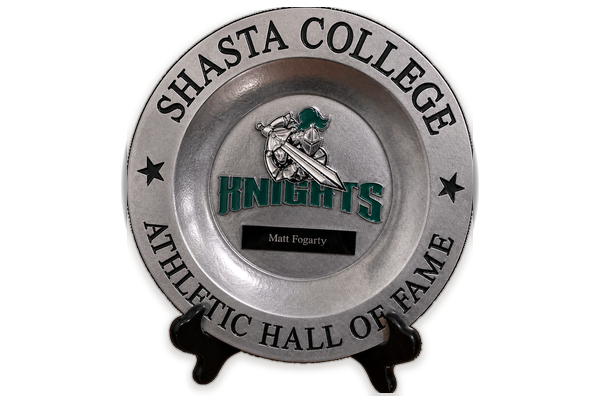
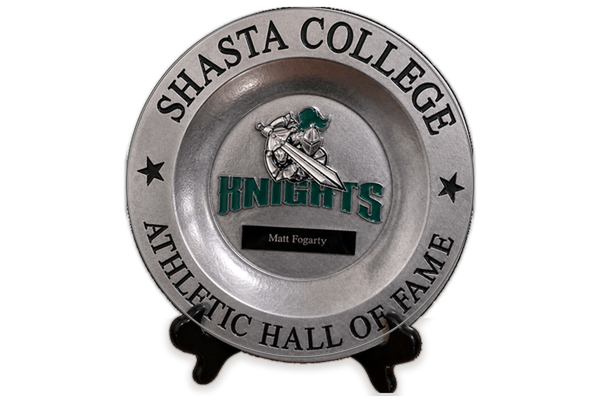
Refine gallery awards and carousel arrows

diff --git a/styles.css b/styles.css
@@ -11243,6 +11243,15 @@ body .page-shell main.media-library-page > #playing-awards-media.media-library-s
   object-position: center center !important;
 }
 
+body .page-shell main.media-library-page > #playing-awards-media.media-library-section .media-library-card.is-award-bg-blend,
+body .page-shell main.media-library-page > #playing-awards-media.media-library-section .media-library-card.is-award-bg-blend .media-library-frame {
+  background: linear-gradient(180deg, #ead8b8 0%, #f5e7cf 42%, #fff7e8 100%) !important;
+}
+
+body .page-shell main.media-library-page > #playing-awards-media.media-library-section .media-library-card.is-award-mvp-plaque .media-library-frame img {
+  transform: scale(1.14) !important;
+}
+
 /* Awards overlay thumbnail lock:
    use cropped overlay-thumb image sources in app.js, then let the image cover
    the full button so no balanced-document mat shows inside the thumbnail. */
@@ -15873,6 +15882,10 @@ body .page-shell main.anaya-case-study-page > .anaya-journey-section > .section-
   line-height: var(--section-title-line-desktop, 1.05) !important;
 }
 
+body .page-shell main.media-library-page > .media-library-section {
+  padding-bottom: 12px !important;
+}
+
 @media (min-width: 1025px) {
   body .page-shell main.media-library-page > .media-library-section > .section-heading > .eyebrow,
   body .page-shell main.anaya-case-study-page > .anaya-journey-section > .section-heading > .eyebrow {
@@ -19615,6 +19628,198 @@ html body .page-shell main.anaya-case-study-page > section.featured-final-cta #a
 /* Anaya Explore handoff: remove the mobile/tablet cream tail after the final image before the black CTA starts. */
 html body .page-shell main.anaya-case-study-page.anaya-case-study-page > section#next-level.section.anaya-journey-section {
   padding-bottom: 0 !important;
+}
+
+html body .page-shell main.media-library-page > #playing-awards-media.media-library-section .media-library-card.is-award-mvp-plaque .media-library-frame img {
+  transform: scale(1.14) !important;
+}
+
+/* Shared carousel arrow centering lock: keep round controls and center the chevron glyph optically. */
+html body :is(
+  .media-carousel-arrow,
+  .system-carousel-arrow,
+  .playing-career-arrow,
+  .playing-career-awards-arrow,
+  .media-overlay-nav,
+  .media-overlay-thumb-nav
+) {
+  display: grid !important;
+  aspect-ratio: 1 / 1 !important;
+  align-items: center !important;
+  justify-items: center !important;
+  place-items: center !important;
+  padding: 0 !important;
+  border-radius: 999px !important;
+  font-size: 0 !important;
+  line-height: 0 !important;
+  text-align: center !important;
+}
+
+html body .media-carousel-arrow {
+  width: 30px !important;
+  height: 30px !important;
+  border-color: #d95a24 !important;
+  color: #9f2f22 !important;
+  -webkit-text-fill-color: #9f2f22 !important;
+}
+
+html body :is(.playing-career-arrow, .media-overlay-nav) {
+  width: 36px !important;
+  height: 36px !important;
+}
+
+html body :is(.playing-career-awards-arrow, .system-carousel-arrow) {
+  width: 36px !important;
+  height: 36px !important;
+}
+
+html body .media-overlay-thumb-nav {
+  width: 32px !important;
+  height: 32px !important;
+}
+
+html body :is(
+  .media-carousel-arrow-prev,
+  .system-carousel-arrow-prev,
+  .playing-career-arrow-prev,
+  .playing-career-awards-arrow-prev,
+  .media-overlay-prev,
+  .media-overlay-thumb-prev
+)::before,
+html body :is(
+  .media-carousel-arrow-next,
+  .system-carousel-arrow-next,
+  .playing-career-arrow-next,
+  .playing-career-awards-arrow-next,
+  .media-overlay-next,
+  .media-overlay-thumb-next
+)::before {
+  display: grid !important;
+  width: 100% !important;
+  height: 100% !important;
+  place-items: center !important;
+  color: currentColor !important;
+  -webkit-text-fill-color: currentColor !important;
+  font-family: Arial, Helvetica, sans-serif !important;
+  font-size: 0.72em !important;
+  font-weight: 700 !important;
+  line-height: 1 !important;
+  text-align: center !important;
+  transform: translateY(-0.02em) !important;
+}
+
+html body :is(
+  .media-carousel-arrow-prev,
+  .system-carousel-arrow-prev,
+  .playing-career-arrow-prev,
+  .playing-career-awards-arrow-prev,
+  .media-overlay-prev,
+  .media-overlay-thumb-prev
+)::before {
+  content: "\2039" !important;
+}
+
+html body :is(
+  .media-carousel-arrow-next,
+  .system-carousel-arrow-next,
+  .playing-career-arrow-next,
+  .playing-career-awards-arrow-next,
+  .media-overlay-next,
+  .media-overlay-thumb-next
+)::before {
+  content: "\203a" !important;
+}
+
+html body :is(.media-carousel-arrow, .system-carousel-arrow)::before {
+  font-size: 1.7rem !important;
+}
+
+html body :is(.playing-career-arrow, .playing-career-awards-arrow, .media-overlay-thumb-nav)::before {
+  font-size: 1.55rem !important;
+}
+
+html body .media-overlay-nav::before {
+  font-size: 2rem !important;
+}
+
+html body :is(
+  .media-carousel-arrow-prev,
+  .system-carousel-arrow-prev,
+  .playing-career-arrow-prev,
+  .playing-career-awards-arrow-prev,
+  .media-overlay-prev,
+  .media-overlay-thumb-prev,
+  .media-carousel-arrow-next,
+  .system-carousel-arrow-next,
+  .playing-career-arrow-next,
+  .playing-career-awards-arrow-next,
+  .media-overlay-next,
+  .media-overlay-thumb-next
+)::before {
+  content: "" !important;
+  position: absolute !important;
+  top: 50% !important;
+  left: 50% !important;
+  display: block !important;
+  width: 0.54em !important;
+  height: 0.54em !important;
+  border-color: currentColor !important;
+  border-style: solid !important;
+  border-width: 0 !important;
+  font-size: 1.5rem !important;
+}
+
+html body :is(.media-carousel-arrow, .system-carousel-arrow, .playing-career-arrow, .playing-career-awards-arrow, .media-overlay-nav, .media-overlay-thumb-nav)::after {
+  content: none !important;
+}
+
+html body :is(
+  .media-carousel-arrow-prev,
+  .system-carousel-arrow-prev,
+  .playing-career-arrow-prev,
+  .playing-career-awards-arrow-prev,
+  .media-overlay-prev,
+  .media-overlay-thumb-prev
+)::before {
+  border-bottom-width: 4px !important;
+  border-left-width: 4px !important;
+  transform: translate(-38%, -50%) rotate(45deg) !important;
+}
+
+html body :is(
+  .media-carousel-arrow-next,
+  .system-carousel-arrow-next,
+  .playing-career-arrow-next,
+  .playing-career-awards-arrow-next,
+  .media-overlay-next,
+  .media-overlay-thumb-next
+)::before {
+  border-top-width: 4px !important;
+  border-right-width: 4px !important;
+  transform: translate(-62%, -50%) rotate(45deg) !important;
+}
+
+html body :is(.media-carousel-arrow, .system-carousel-arrow)::before {
+  font-size: 0.8rem !important;
+}
+
+html body :is(.playing-career-arrow, .playing-career-awards-arrow, .media-overlay-thumb-nav)::before {
+  font-size: 1.08rem !important;
+  border-width: 0 !important;
+}
+
+html body :is(.playing-career-arrow-prev, .playing-career-awards-arrow-prev, .media-overlay-thumb-prev)::before {
+  border-bottom-width: 3px !important;
+  border-left-width: 3px !important;
+}
+
+html body :is(.playing-career-arrow-next, .playing-career-awards-arrow-next, .media-overlay-thumb-next)::before {
+  border-top-width: 3px !important;
+  border-right-width: 3px !important;
+}
+
+html body .media-overlay-nav::before {
+  font-size: 1.28rem !important;
 }
 
 @media (max-width: 1024px) {

diff --git a/app.js b/app.js
@@ -1155,11 +1155,12 @@ const playingCareerAwardAlbums = [
       {
         type: "image",
         fullSrc: playingCareerAward("playing-awards-rocky-mountain-college-mvp-portrait-1800x2400.avif"),
-        mediaCardSrc: playingCareerAward("playing-awards-rocky-mountain-college-mvp-card-1200x900.avif"),
+        mediaCardSrc: playingCareerAward("playing-awards-rocky-mountain-college-mvp-clean-600x400.png"),
         carouselSrc: playingCareerAward("playing-awards-rocky-mountain-college-mvp-clean-600x400.png"),
         thumbSrc: playingCareerAward("playing-awards-rocky-mountain-college-mvp-overlay-thumb-600x400.webp"),
         alt: "Rocky Mountain College MVP award",
         caption: "Rocky Mountain College MVP",
+        cardClass: "is-award-bg-blend is-award-mvp-plaque",
         orientation: "portrait"
       },
       {
@@ -1173,9 +1174,11 @@ const playingCareerAwardAlbums = [
       {
         type: "image",
         fullSrc: playingCareerAward("playing-awards-shasta-college-hall-of-fame-landscape-2400x1800.avif"),
+        mediaCardSrc: `${playingCareerAward("playing-awards-shasta-college-hall-of-fame-transparent-600x400.png")}?v=plate-black-rim-20260528`,
         thumbSrc: playingCareerAward("playing-awards-shasta-college-hall-of-fame-overlay-thumb-600x400.webp"),
         alt: "Shasta College Hall of Fame award",
         caption: "College Hall of Fame - Shasta College",
+        cardClass: "is-award-bg-blend",
         orientation: "landscape"
       },
       {
@@ -1654,9 +1657,10 @@ function mediaLibraryCardMarkup(albumIndex, itemIndex, item, label = "Gallery", 
   const isAwardsCard = album?.title === "Playing Career Awards";
   const awardsThumb = item.mediaCardSrc || mediaItemSrc(item);
   const thumb = isVideo ? mediaItemPoster(item) : isAwardsCard ? awardsThumb : mediaItemCardSrc(item);
+  const cardClass = item.cardClass ? ` ${item.cardClass}` : "";
 
   return `
-    <button class="media-library-card ${isVideo ? "media-video-card" : "media-photo-card"}" type="button" data-media-library-album="${albumIndex}" data-media-library-item="${itemIndex}" aria-label="Open ${item.alt || title}">
+    <button class="media-library-card ${isVideo ? "media-video-card" : "media-photo-card"}${cardClass}" type="button" data-media-library-album="${albumIndex}" data-media-library-item="${itemIndex}" aria-label="Open ${item.alt || title}">
       <span class="media-library-frame">
         ${
           isVideo

diff --git a/gallery.html b/gallery.html
@@ -5,7 +5,7 @@
     <meta name="viewport" content="width=device-width, initial-scale=1.0" />
     <title>Gallery | Matthew Fogarty</title>
     <meta name="description" content="Coach Fogarty media gallery for coaching photos, videos, playing background and team culture visuals." />
-    <link rel="stylesheet" href="./styles.css?v=mobile-featured-subnav-20260527" />
+    <link rel="stylesheet" href="./styles.css?v=site-arrow-centering-20260528" />
   </head>
   <body>
     <div class="page-shell">
@@ -280,7 +280,7 @@
     </div>
 
     <script src="./assets/js/image-fallbacks.js"></script>
-    <script src="./app.js?v=gallery-carousel-row-20260523"></script>
+    <script src="./app.js?v=gallery-awards-plate-black-rim-20260528"></script>
     <script src="./footer.js?v=mobile-featured-subnav-20260527"></script>
   </body>
 </html>

diff --git a/the-archer.html b/the-archer.html
@@ -11,7 +11,7 @@
     <meta property="og:title" content="The Archer | Matthew Fogarty Basketball Training Innovation" />
     <meta property="og:description" content="A player development tool designed to improve shooting arc, touch, and repeatable basketball mechanics." />
     <meta property="og:image" content="./assets/the-archer/photos/archer-shooting-development-wide-01.jpg" />
-    <link rel="stylesheet" href="./styles.css?v=mobile-featured-subnav-20260527" />
+    <link rel="stylesheet" href="./styles.css?v=site-arrow-centering-20260528" />
   </head>
   <body>
     <div class="page-shell">

diff --git a/featured.html b/featured.html
@@ -5,7 +5,7 @@
     <meta name="viewport" content="width=device-width, initial-scale=1.0" />
     <title>Featured Work | Matthew Fogarty</title>
     <meta name="description" content="Featured coaching portfolio proof from Coach Fogarty including Santa Ana College, Pacific Academy, the Anaya Beard case study, and The Archer training innovation." />
-    <link rel="stylesheet" href="./styles.css?v=mobile-featured-subnav-highlight-lanes-20260527" />
+    <link rel="stylesheet" href="./styles.css?v=site-arrow-centering-20260528" />
   </head>
   <body>
     <div class="page-shell">

diff --git a/credentials.html b/credentials.html
@@ -5,7 +5,7 @@
     <meta name="viewport" content="width=device-width, initial-scale=1.0" />
     <title>Credentials | Matthew Fogarty</title>
     <meta name="description" content="Coach Fogarty resume, degrees, licenses, certifications, memberships, recommendation letters and professional credentials." />
-    <link rel="stylesheet" href="./styles.css?v=mobile-featured-subnav-20260527" />
+    <link rel="stylesheet" href="./styles.css?v=site-arrow-centering-20260528" />
   </head>
   <body>
     <div class="page-shell">

diff --git a/contact.html b/contact.html
@@ -6,7 +6,7 @@
     <title>Contact | Matthew Fogarty</title>
     <meta name="description" content="Contact Coach Matthew Fogarty for college basketball coaching opportunities." />
     <!-- Contact header uses the same shared homepage/About chrome; refresh this cache key when that shell changes. -->
-    <link rel="stylesheet" href="./styles.css?v=mobile-featured-subnav-20260527" />
+    <link rel="stylesheet" href="./styles.css?v=site-arrow-centering-20260528" />
   </head>
   <body>
     <div class="page-shell">

diff --git a/about.html b/about.html
@@ -5,7 +5,7 @@
     <meta name="viewport" content="width=device-width, initial-scale=1.0" />
     <title>About | Matthew Fogarty</title>
     <meta name="description" content="About Matthew Fogarty's playing foundation, player development background, program building and college staff impact." />
-    <link rel="stylesheet" href="./styles.css?v=mobile-featured-subnav-20260527" />
+    <link rel="stylesheet" href="./styles.css?v=site-arrow-centering-20260528" />
   </head>
   <body>
     <div class="page-shell">

diff --git a/systems.html b/systems.html
@@ -5,7 +5,7 @@
     <meta name="viewport" content="width=device-width, initial-scale=1.0" />
     <title>Systems | Matthew Fogarty</title>
     <meta name="description" content="Coach Fogarty's player development, scouting, DPAT, program operations and coaching philosophy systems." />
-    <link rel="stylesheet" href="./styles.css?v=mobile-featured-subnav-20260527" />
+    <link rel="stylesheet" href="./styles.css?v=site-arrow-centering-20260528" />
   </head>
   <body>
     <div class="page-shell">

diff --git a/anaya-case-study.html b/anaya-case-study.html
@@ -8,7 +8,7 @@
       name="description"
       content="A coach-led player development case study showing Anaya Beard's foundation, development process, leadership growth, production, recognition and next-level opportunities."
     />
-    <link rel="stylesheet" href="./styles.css?v=mobile-featured-subnav-20260527" />
+    <link rel="stylesheet" href="./styles.css?v=site-arrow-centering-20260528" />
   </head>
   <body>
     <div class="page-shell">

diff --git a/index.html b/index.html
@@ -8,7 +8,7 @@
       name="description"
       content="Matthew Fogarty college basketball coaching portfolio with player development, scouting, recruiting, defense, program systems, credentials and coaching impact."
     />
-    <link rel="stylesheet" href="./styles.css?v=mobile-featured-subnav-20260527" />
+    <link rel="stylesheet" href="./styles.css?v=site-arrow-centering-20260528" />
   </head>
   <body>
     <div class="page-shell">
